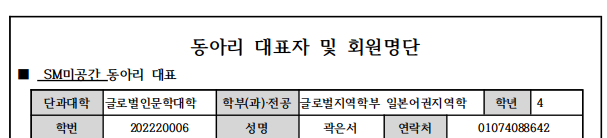
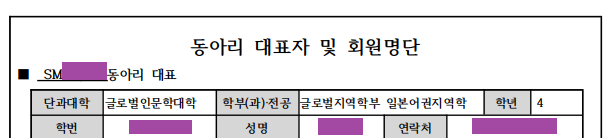
midterm_final

diff --git a/REPORT.md b/REPORT.md
@@ -1,0 +1,129 @@
+# 개인 이력서 – REPORT
+
+| 항목 | 내용 |
+
+|---|---|
+
+| 활동명 | (예: GitHub ID) |
+
+| 배포 URL | https:// |
+
+| 작성일 | 2026- - |
+
+> **작성 안내**
+
+> - 이 파일은 제출 zip 최상위에 `REPORT.md` 이름 그대로 넣습니다.
+
+> - `( )` 표시된 칸을 채우고, 캡처 이미지는 `images/` 폴더에 넣어 링크합니다.
+
+> - 요구사항 정의서(F-01~F-06의 수용 기준)와 화면 설계는 과제 공지 슬라이드를 따릅니다.
+
+> - 이 안내문(인용 블록)은 지워도 됩니다.
+
+> - 실명, 학번 등 개인정보는 적지 않습니다.
+
+---
+
+## 1. 인수 검수표
+
+> - 완성된 이력서를 **직접 확인**하고 결과를 적습니다.
+
+> - 확인 방법은 과제 공지의 **수용 기준 번호(①, ②, …)마다** 무엇을 어떻게 확인했는지 적습니다.
+
+> - 수용 기준 중 하나라도 충족하지 못하면 **Fail**입니다. 어떤 기준을 못 맞췄는지 번호로 적습니다. 예: `Fail (②)`
+
+> - **Fail을 정직하게 적은 것은 감점하지 않습니다. Pass라고 적었는데 실제로 안 되면 감점합니다.**
+
+> - 근거는 캡처 이미지 경로로 적습니다.
+
+| ID | 확인 방법 | 결과 | 근거 |
+
+|---|---|---|---|
+
+| F-01 | 배포 URL을 창 너비 1280px에서 열고, 스크롤 없이(④) ① 활동명 ② 소속 ③ 한 줄 소개(1문장, 글자 수 확인)가 보이는지 확인 | Pass | [캡처](images/check_F01.png) |
+
+| F-02 | ( ) | ( ) | ( ) |
+
+| F-03 | ( ) | ( ) | ( ) |
+
+| F-04 | ( ) | ( ) | ( ) |
+
+| F-05 | ( ) | ( ) | ( ) |
+
+| F-06 | ( ) | ( ) | ( ) |
+
+| Q-HTML | W3C HTML 검사기(https://validator.w3.org/)로 배포 URL 검사 | ( ) | ( ) |
+
+| Q-CSS | W3C CSS 검사기(https://jigsaw.w3.org/css-validator/)로 검사 + 인라인 style 사용 여부 확인 + 창 크기 변경 확인 | ( ) | ( ) |
+
+| Q-DEPLOY | 배포 URL에서 모든 링크 클릭, 모든 이미지 표시 확인 | ( ) | ( ) |
+
+> ↑ F-01 행은 작성 예시입니다. Q 항목의 확인 방법은 그대로 써도 되고 보충해도 됩니다.
+
+---
+
+## 2. 완성도 분석
+
+**완성도 = 충족(Pass)한 요구사항 수 ÷ 평가 대상 요구사항 수(9) = ( ) / 9 = ( )%**
+
+### 요구사항과 결과가 다른 부분
+
+> Fail 항목의 수용 기준과 실제 결과를 비교하고, 왜 그렇게 되었는지 적습니다.
+
+| ID | 수용 기준 | 실제 결과 | 원인 |
+
+|---|---|---|---|
+
+| ( ) | ( ) | ( ) | ( ) |
+
+> 원인 예: AI가 만든 결과를 확인하지 않았음, AI에게 필요한 자료를 주지 않았음, 수용 기준을 잘못 이해했음 등
+
+> 모두 Pass라면, 작업 중에 Fail이었다가 고친 항목을 적어도 됩니다.
+
+### 다음에 다르게 할 점
+
+( )
+
+---
+
+## 3. 추가 요구사항 제안 (선택 – 가산점)
+
+> 이력서에 더 필요하다고 생각하는 요구사항을 **직접 정의 → 구현 → 검수**합니다.
+
+> 과제 공지의 요구사항 정의서와 같은 형식으로 씁니다.
+
+>
+
+> **수용 기준 작성법**: "이 요구사항이 완료되었다"고 판단하는 기준입니다. 누가 확인해도 Pass / Fail이 같게 나오도록 씁니다.
+
+>
+
+> | 나쁜 예 | 왜 안 되나 |
+
+> |---|---|
+
+> | 보기 좋게 만든다 | "보기 좋게"는 사람마다 판단이 다름 |
+
+> | 잘 정리한다 | 무엇을 확인해야 하는지 알 수 없음 |
+
+>
+
+> - 번호를 붙여 여러 개로 나눕니다. 모두 충족해야 Pass입니다.
+
+> - 숫자(개수, 글자 수, 화면 크기), 위치(상단, 첫 화면), 동작(클릭하면 이동)을 넣으면 확인하기 쉬워집니다.
+
+### 요구사항 정의
+
+| ID | 요구사항 | 제안 이유 | 수용 기준 |
+
+|---|---|---|---|
+
+| A-01 | ( ) | ( ) | ( ) |
+
+### 검수
+
+| ID | 확인 방법 | 결과 | 근거 |
+
+|---|---|---|---|
+
+| A-01 | ( ) | ( ) | ( ) |
